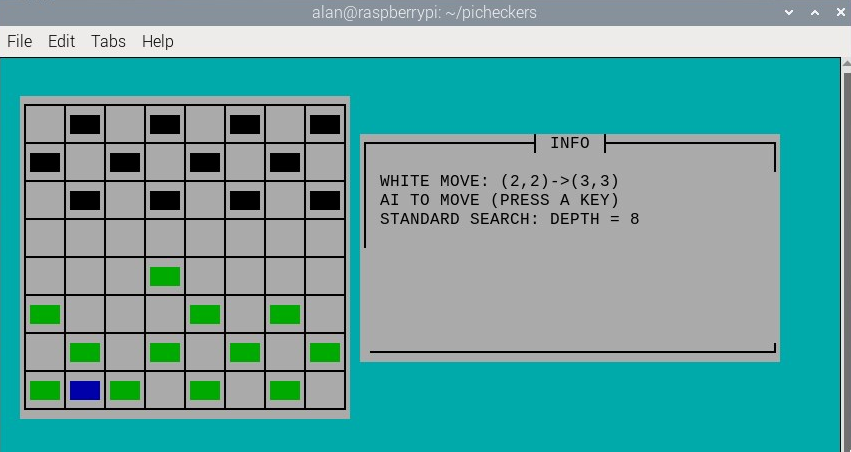
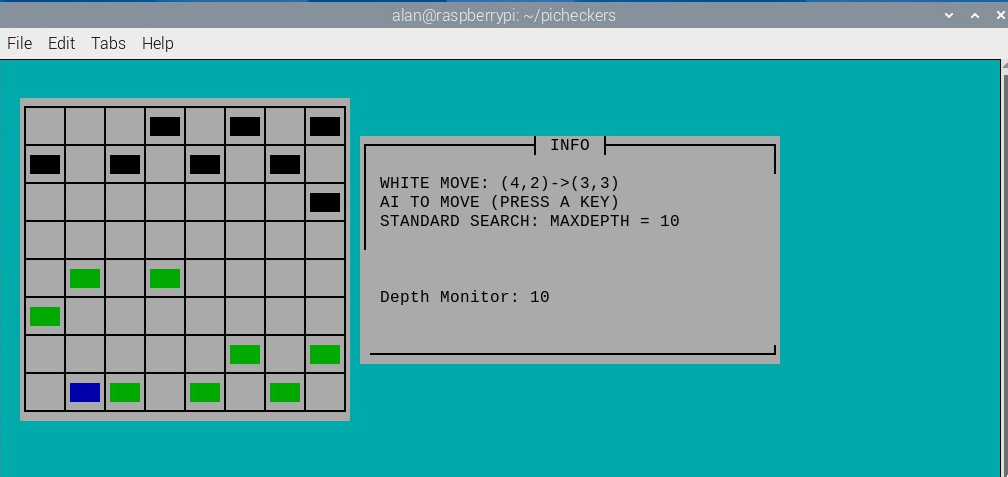
Pi Checkers version 0.3.2
[build]: C and ncurses 6.4-4 (Raspberry Pi 4)
[fix]: depth monitor on by default
[fix]: standard depth set to 10
[fix]: get possible white moves
[fix]: get possible black moves
[feat]: binary for Raspberry Pi4 OS (64 bit)
[docs]: readme documentation

diff --git a/src/gameboard.c b/src/gameboard.c
@@ -25,8 +25,8 @@ WINDOW *info_win;
 #define WKING 3
 #define BKING 4
 
-#define PLAYER1 1
-#define PLAYER2 2
+#define PLAYER1 1 //white
+#define PLAYER2 2  //black AI
 
 bool depth_monitor =TRUE;
 
@@ -492,7 +492,7 @@ void get_possible_white_moves(int board[BOARD_SIZE][BOARD_SIZE],int possibleMove
 	       if ((board[x][y] == WKING) && (board[x_mid][y_mid] == BMAN || board[x_mid][y_mid] == BKING)
 	       && (board[x_jump][y_jump] == EMPTY))
 	       {	       					 
-	       jump_moves[num_jump_moves][0] =x;
+	        jump_moves[num_jump_moves][0] =x;
 			jump_moves[num_jump_moves][1] =y;
 			jump_moves[num_jump_moves][2]=x_jump;
 			jump_moves[num_jump_moves][3]=y_jump;
@@ -568,15 +568,15 @@ void get_possible_white_moves(int board[BOARD_SIZE][BOARD_SIZE],int possibleMove
 		//*numMoves =num_jump_moves;
 		num_moves=num_jump_moves;		
 		for (int i = 0; i < num_jump_moves; ++i) {
-		int currenty1 = jump_moves[i][0];
-		int currentx1 = jump_moves[i][1];
-		int currenty2 = jump_moves[i][2];
-		int currentx2 = jump_moves[i][3];
+		int currentx1 = jump_moves[i][0];
+		int currenty1 = jump_moves[i][1];
+		int currentx2 = jump_moves[i][2];
+		int currenty2 = jump_moves[i][3];
 		
-		possibleMoves[i][0]=currenty1;
-		possibleMoves[i][1]=currentx1; 
-		possibleMoves[i][2]=currenty2;
-		possibleMoves[i][3]=currentx2;
+		possibleMoves[i][0]=currentx1;
+		possibleMoves[i][1]=currenty1; 
+		possibleMoves[i][2]=currentx2;
+		possibleMoves[i][3]=currenty2;
 		}//for		
 	} //if jump move
 	else {
@@ -584,15 +584,15 @@ void get_possible_white_moves(int board[BOARD_SIZE][BOARD_SIZE],int possibleMove
 		//*numMoves =num_standard_moves;
 		num_moves=num_standard_moves;		
 		for (int i = 0; i < num_standard_moves; ++i) {
-		int currenty1 = standard_moves[i][0];
-		int currentx1 = standard_moves[i][1];
-		int currenty2 = standard_moves[i][2];
-		int currentx2 = standard_moves[i][3];
+		int currentx1 = standard_moves[i][0];
+		int currenty1 = standard_moves[i][1];
+		int currentx2 = standard_moves[i][2];
+		int currenty2 = standard_moves[i][3];
 		
-		possibleMoves[i][0]=currenty1;
-		possibleMoves[i][1]=currentx1; 
-		possibleMoves[i][2]=currenty2;
-		possibleMoves[i][3]=currentx2;
+		possibleMoves[i][0]=currentx1;
+		possibleMoves[i][1]=currenty1; 
+		possibleMoves[i][2]=currentx2;
+		possibleMoves[i][3]=currenty2;
 		}//for
 	}//else standard move	
 	
@@ -859,15 +859,15 @@ void get_possible_black_moves(int board[BOARD_SIZE][BOARD_SIZE],int possibleMove
 		//*numMoves =num_jump_moves;
 		num_moves=num_jump_moves;		
 		for (int i = 0; i < num_jump_moves; ++i) {
-		int currenty1 = jump_moves[i][0];
-		int currentx1 = jump_moves[i][1];
-		int currenty2 = jump_moves[i][2];
-		int currentx2 = jump_moves[i][3];
+		int currentx1 = jump_moves[i][0];
+		int currenty1 = jump_moves[i][1];
+		int currentx2 = jump_moves[i][2];
+		int currenty2 = jump_moves[i][3];
 		
-		possibleMoves[i][0]=currenty1;
-		possibleMoves[i][1]=currentx1; 
-		possibleMoves[i][2]=currenty2;
-		possibleMoves[i][3]=currentx2;
+		possibleMoves[i][0]=currentx1;
+		possibleMoves[i][1]=currenty1; 
+		possibleMoves[i][2]=currentx2;
+		possibleMoves[i][3]=currenty2;
 		}//for		
 	} //if jump move
 	else {
@@ -875,15 +875,15 @@ void get_possible_black_moves(int board[BOARD_SIZE][BOARD_SIZE],int possibleMove
 		//*numMoves =num_standard_moves;
 		num_moves=num_standard_moves;		
 		for (int i = 0; i < num_standard_moves; ++i) {
-		int currenty1 = standard_moves[i][0];
-		int currentx1 = standard_moves[i][1];
-		int currenty2 = standard_moves[i][2];
-		int currentx2 = standard_moves[i][3];
+		int currentx1 = standard_moves[i][0];
+		int currenty1 = standard_moves[i][1];
+		int currentx2 = standard_moves[i][2];
+		int currenty2 = standard_moves[i][3];
 		
-		possibleMoves[i][0]=currenty1;
-		possibleMoves[i][1]=currentx1; 
-		possibleMoves[i][2]=currenty2;
-		possibleMoves[i][3]=currentx2;
+		possibleMoves[i][0]=currentx1;
+		possibleMoves[i][1]=currenty1; 
+		possibleMoves[i][2]=currentx2;
+		possibleMoves[i][3]=currenty2;
 		}//for
 	}//else standard move
 		
@@ -959,7 +959,7 @@ bool can_capture(int board[BOARD_SIZE][BOARD_SIZE], int x, int y, int *x_cap, in
                   board[x+1][y+1] == BKING)&&
                   board[x+2][y+2] == EMPTY){               
                  *x_cap =x+2;
-                *y_cap =y+2;                
+                 *y_cap =y+2;                
                 return TRUE;
 			}//if
 		}
@@ -1109,9 +1109,10 @@ void get_possible_moves(int board[BOARD_SIZE][BOARD_SIZE], int turn, int possibl
 void get_best_move_AI(int board[BOARD_SIZE][BOARD_SIZE], int turn, int maxDepth, int* x1, int* y1, int* x2, int* y2) 
 {
 	// get move possible moves
+	//get_best_move_AI
 	int moves[100][4];
 	int numMoves = 0;
-	get_possible_moves(board, turn, moves, &numMoves);
+	get_possible_moves(board, PLAYER2, moves, &numMoves);
 	
 	int bestScore = -9999;	
 	int bestMoveIndex = 0;
@@ -1127,9 +1128,8 @@ void get_best_move_AI(int board[BOARD_SIZE][BOARD_SIZE], int turn, int maxDepth,
 	copy_board(board, boardCopy);	
 	//make_move(boardCopy, turn, currentx1, currenty1, currentx2, currenty2);
 	make_move(boardCopy, currentx1, currenty1, currentx2, currenty2);
-	//if PLAYER2 then minimax PLAYER1 to get their best moves
-	int score = minimax_jumps(boardCopy, maxDepth, 0, PLAYER1, -9999, 9999); //player 1
-	//int score = minimax(boardCopy, maxDepth, 0, PLAYER2, -9999, 9999); //player 1
+	int score = minimax_jumps(boardCopy, maxDepth, 0, PLAYER1, -9999, 9999); //player2 AI
+	
 	if (score > bestScore) {
 	bestScore = score;
 	bestMoveIndex = i;

diff --git a/src/main.c b/src/main.c
@@ -75,13 +75,13 @@ int main(int argc, char **argv)
 	int m_side =HUMAN;	
 	int ch=0;	
 	
-	int max_depth=8;
+	int max_depth=10;
 
 	init_board(board);
 	init_all();
 	
 	create_info_win();
-	mvwprintw(info_win, 2, 2, "Pi Checkers v0.3.1                      ");
+	mvwprintw(info_win, 2, 2, "Pi Checkers v0.3.2                      ");
 	mvwprintw(info_win, 3, 2, "A key: AI move                          ");
 	mvwprintw(info_win, 4, 2, "D key: Deep Search                      ");
 	mvwprintw(info_win, 5, 2, "H key: Help                             ");
@@ -123,7 +123,7 @@ int main(int argc, char **argv)
 				 m_deep_search=TRUE; //toggle
 			 }
 			 else {
-				 max_depth=8;
+				 max_depth=10;
 				 m_deep_search=FALSE; //toggle				 
 			 }
 			 
@@ -255,7 +255,7 @@ int main(int argc, char **argv)
 				//AI returned non-valid move				
 				clear_info_window();	
 				mvwprintw(info_win, 2, 2, "BLACK AI MOVE: (%d,%d)->(%d,%d)    ",ai_x1,ai_y1,ai_x2,ai_y2);			
-				mvwprintw(info_win, 3, 2, "AI FAILED: SORRY GAME OVER.          ");
+				mvwprintw(info_win, 3, 2, " AI FAILED: SORRY GAME OVER.          ");
 				//mvwprintw(info_win, 4, 2, "AI FAILED: SORRY GAME OVER.          ");
 				wrefresh(info_win);	
 			}
@@ -340,7 +340,7 @@ int main(int argc, char **argv)
 		}
 		else {
 		mvwprintw(info_win, 3, 2, "AI TO MOVE (PRESS A KEY)              ");
-		mvwprintw(info_win, 4, 2, "STANDARD SEARCH: DEPTH = %d           ",max_depth);
+		mvwprintw(info_win, 4, 2, "STANDARD SEARCH: MAXDEPTH = %d         ",max_depth);
 	    }
 		wrefresh(info_win);
 	    }

diff --git a/README.md b/README.md
@@ -2,7 +2,7 @@
 
 Pi Checkers is a demo of the classic human-vs-computer checkers game for the Raspberry Pi. 
 
-It can be run from the terminal and uses ncurses for the user interface so that Pi Checkers can be played by users who ssh into their Raspberry Pi.
+It can be run from the terminal and uses ncurses for the user interface so that Pi Checkers can be played by users who [ssh](https://www.raspberrypi.com/documentation/computers/remote-access.html) into their Raspberry Pi.
 
 A screenshot is shown below.
 
@@ -34,7 +34,7 @@ chmod +x picheckers
 
 ## Usage
 
-This is a human-vs-computer game. You (the human player) first move a player piece on the board. To do this use the keyboard arrow keys to move the blue cursor to the start piece position and press the space-bar to select. Then move the blue cursor to the end piece position on the board and then press the space-bar again to select the end point. So, ***move to start location and press space-bar and then move to end location and press space-bar***.  The cursor is returned to the bottom left of the board after a move has been made (i.e. x=1, y=0). Press the ***A key*** (A for AI) with caps lock off to get the built-in AI to respond to your move. Make sure cap-lock is off before pressing the A key. The cursor colour is blue, the player is light green and the AI is black.
+This is a human-vs-computer game. You (the human player) first move a player piece on the board. To do this use the keyboard arrow keys to move the blue cursor to the start piece position and press the space-bar to select. Then move the blue cursor to the end piece position on the board and then press the space-bar again to select the end point. So, ***move to start location and press space-bar and then move to end location and press space-bar***.  The cursor is returned to the bottom left of the board after a move has been made (i.e. x=1, y=0). Press the ***A key*** (A for AI) with caps lock off to get the built-in AI to respond to your move. Make sure cap-lock is off before pressing the A key. The cursor colour is blue, the human white player is light green and the AI is black.
 
 If the human player can make a multiple jump then you jump the first piece and then jump the second piece and so on. The AI can also make multiple jumps. You press the A Key again. Information on the current state of play is shown in an information window next to the checker board. If you get a "white illegal move" it usually means that you have to jump elsewhere or you have tried to move to a position which is not allowed. Start the move again.
 
@@ -78,7 +78,7 @@ The screenshots below show a deep-search move before and after and monitoring th
 ![](pi-checkers-deepsearch-move-completed.png) 
 ![](pi-checkers-htop.png) 
 
-Htop shows that only one of the processors is running at 100% when deep searching.
+Htop shows processor activity  and memory useage when deep searching.
 
 ## Build From Source
 
@@ -121,7 +121,7 @@ make clean
 
 The code will be updated as and when I find bugs or make other improvements such as enhancing the minimax jump algorithm.
 
-The minimax jump algorithm is slow when put into the deep-search mode. Htop shows that the minimax algorithm is running on one thread using one of the four CPU cores of the Raspberry Pi4 processor. Future work will explore if a parallel version of the minimax search algorithm can be developed to reduce search time. 
+The minimax jump algorithm is slow when put into the deep-search mode. Future work will explore if a parallel version of the minimax search algorithm can be developed to reduce search time. 
 
 ## Version Control
 
@@ -146,3 +146,5 @@ Active.
 * [Geany](https://www.geany.org/) is a lightweight source-code editor [GPL v2 license](https://www.gnu.org/licenses/old-licenses/gpl-2.0.txt)
 
 * [MIT OpenCourseWare Lecture. Search: Games, Minimax and Alpha-Beta](https://www.youtube.com/watch?v=STjW3eH0Cik&t=13s)
+
+* [DroneBot Workshop: Raspberry Pi Remote Access - 3 Methods](https://www.youtube.com/watch?v=l4VDWhKsFgs)
